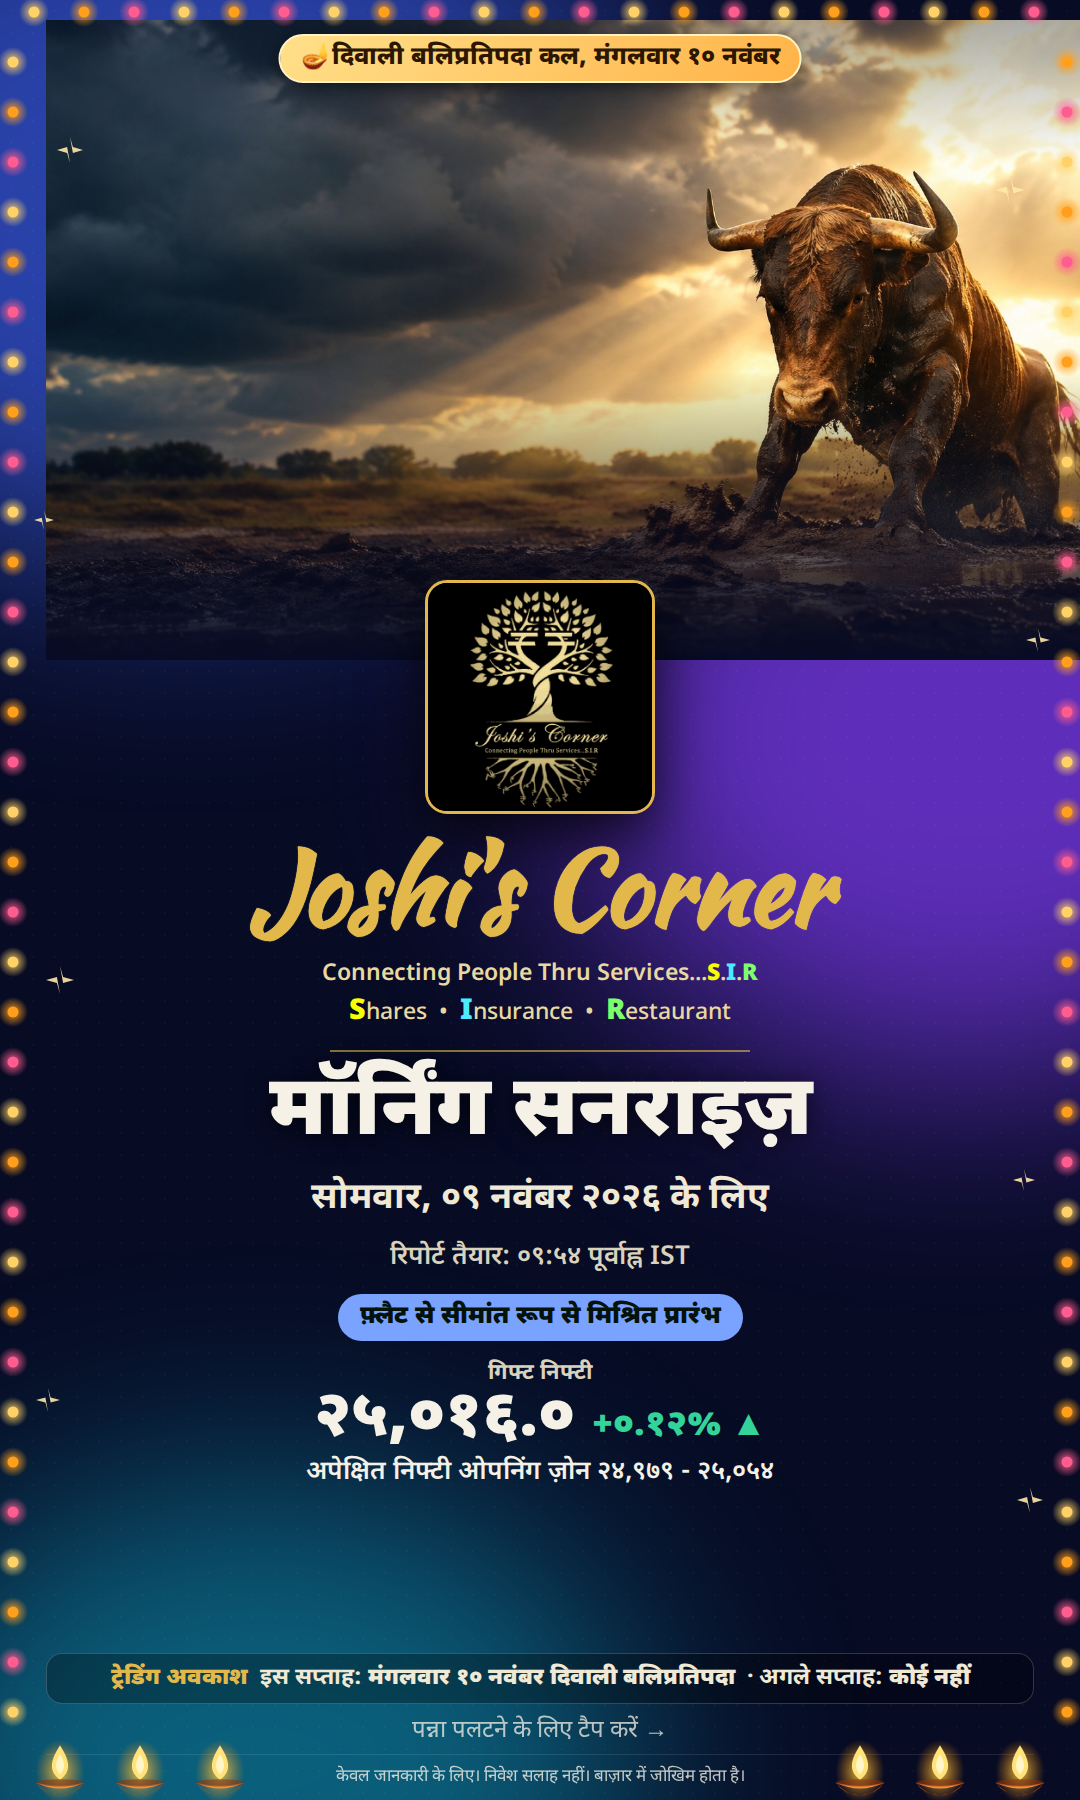
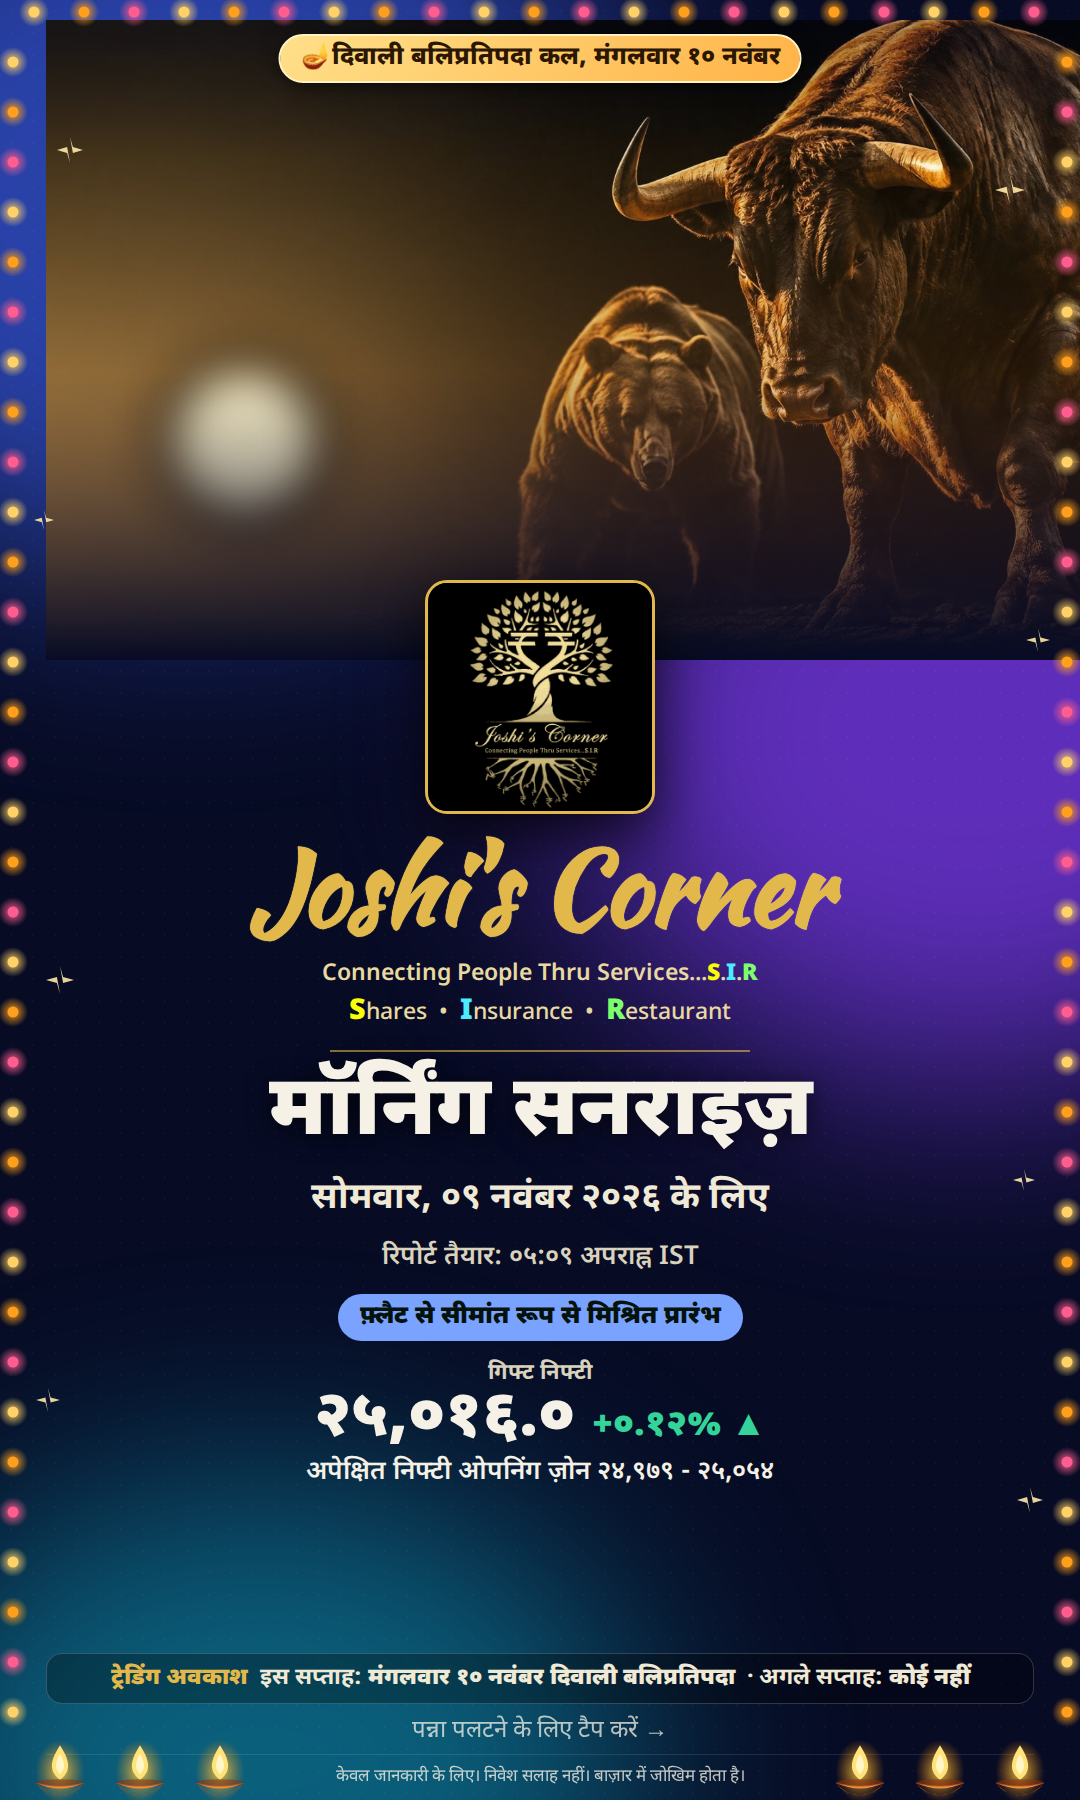
backfill: Hindi/Bengali editions

Changed region(s): [[0.0306, 0.0, 1.0, 0.3422], [0.3361, 0.6844, 0.6417, 0.7156]]

diff --git a/morning/2026-11-09/index.html b/morning/2026-11-09/index.html
@@ -41,7 +41,7 @@ html,body{height:100%;background:radial-gradient(120% 90% at 50% 0%,#2a2140 0%,#
 <div class="top"><span class="b">Joshi's Corner</span><span class="lg"><button data-l="en">English</button><button data-l="hi">हिन्दी</button><button data-l="bn">বাংলা</button></span></div>
 <div class="stage"><div class="book" id="book"><div class="spine"></div><div class="leaf"><img src="../../reports/morning-pulse/JCGG_Morning_Pulse_Mobile_2026-11-09_1.png" alt="Page 1" loading="eager"><div class="back"></div><div class="shade"></div></div><div class="leaf"><img src="../../reports/morning-pulse/JCGG_Morning_Pulse_Mobile_2026-11-09_2.png" alt="Page 2" loading="eager"><div class="back"></div><div class="shade"></div></div><div class="leaf"><img src="../../reports/morning-pulse/JCGG_Morning_Pulse_Mobile_2026-11-09_3.png" alt="Page 3" loading="eager"><div class="back"></div><div class="shade"></div></div><div class="leaf"><img src="../../reports/morning-pulse/JCGG_Morning_Pulse_Mobile_2026-11-09_4.png" alt="Page 4" loading="eager"><div class="back"></div><div class="shade"></div></div><div class="leaf"><img src="../../reports/morning-pulse/JCGG_Morning_Pulse_Mobile_2026-11-09_5.png" alt="Page 5" loading="eager"><div class="back"></div><div class="shade"></div></div><div class="leaf"><img src="../../reports/morning-pulse/JCGG_Morning_Pulse_Mobile_2026-11-09_6.png" alt="Page 6" loading="eager"><div class="back"></div><div class="shade"></div></div></div></div>
 <div class="hint" id="hint">Tap the page to turn it</div>
-<div class="stat"><div class="old" id="old"></div><span id="gen">Report generated <b>Mon 09 Nov 2026, 09:54 AM IST</b></span></div>
+<div class="stat"><div class="old" id="old"></div><span id="gen">Report generated <b>Tue 10 Nov 2026, 05:09 PM IST</b></span></div>
 <div class="bar"><button class="g" id="prev" aria-label="Previous page">&#8249;</button><div class="dots" id="dots"></div><button id="next" aria-label="Next page">Next page &#8250;</button><button class="g" id="share">Share</button></div>
 <script>(function(){
 var LP={"en": ["../../reports/morning-pulse/JCGG_Morning_Pulse_Mobile_2026-11-09_1.png", "../../reports/morning-pulse/JCGG_Morning_Pulse_Mobile_2026-11-09_2.png", "../../reports/morning-pulse/JCGG_Morning_Pulse_Mobile_2026-11-09_3.png", "../../reports/morning-pulse/JCGG_Morning_Pulse_Mobile_2026-11-09_4.png", "../../reports/morning-pulse/JCGG_Morning_Pulse_Mobile_2026-11-09_5.png", "../../reports/morning-pulse/JCGG_Morning_Pulse_Mobile_2026-11-09_6.png"], "hi": ["../../reports/morning-pulse/JCGG_Morning_Pulse_Mobile_HI_2026-11-09_1.png", "../../reports/morning-pulse/JCGG_Morning_Pulse_Mobile_HI_2026-11-09_2.png", "../../reports/morning-pulse/JCGG_Morning_Pulse_Mobile_HI_2026-11-09_3.png", "../../reports/morning-pulse/JCGG_Morning_Pulse_Mobile_HI_2026-11-09_4.png", "../../reports/morning-pulse/JCGG_Morning_Pulse_Mobile_HI_2026-11-09_5.png", "../../reports/morning-pulse/JCGG_Morning_Pulse_Mobile_HI_2026-11-09_6.png"], "bn": ["../../reports/morning-pulse/JCGG_Morning_Pulse_Mobile_BN_2026-11-09_1.png", "../../reports/morning-pulse/JCGG_Morning_Pulse_Mobile_BN_2026-11-09_2.png", "../../reports/morning-pulse/JCGG_Morning_Pulse_Mobile_BN_2026-11-09_3.png", "../../reports/morning-pulse/JCGG_Morning_Pulse_Mobile_BN_2026-11-09_4.png", "../../reports/morning-pulse/JCGG_Morning_Pulse_Mobile_BN_2026-11-09_5.png", "../../reports/morning-pulse/JCGG_Morning_Pulse_Mobile_BN_2026-11-09_6.png"]},DEF=document.documentElement.lang||'en',cur='en';
@@ -82,11 +82,12 @@ document.addEventListener('keydown',function(e){if(e.key==='ArrowRight'||e.key==
 var sx=null;document.addEventListener('touchstart',function(e){sx=e.touches[0].clientX},{passive:true});
 document.addEventListener('touchend',function(e){if(sx===null)return;var dx=e.changedTouches[0].clientX-sx;if(Math.abs(dx)>45)go(dx<0?1:-1);sx=null},{passive:true});
 document.getElementById('share').onclick=function(){var d={title:"Joshi's Corner - Morning Sunrise for Monday, 09 November 2026",text:"Joshi's Corner - Morning Sunrise for Monday, 09 November 2026",url:location.href};if(navigator.share){navigator.share(d).catch(function(){})}else if(navigator.clipboard){navigator.clipboard.writeText(location.href);this.textContent='Link copied'}};
-(function(){var RD='2026-11-09',KIND='morning',ADM='',GEN='Mon 09 Nov 2026, 09:54 AM IST';
+(function(){var RD='2026-11-09',KIND='morning',ADM='',GEN='Tue 10 Nov 2026, 05:09 PM IST';
  var n=new Date(Date.now()+19800000),mm=n.getUTCHours()*60+n.getUTCMinutes(),dow=n.getUTCDay(),due=KIND==='evening'?16*60+40:8*60+55;
  function iso(d){return d.toISOString().slice(0,10)}
- var e=new Date(n.getTime());if(dow>=1&&dow<=5&&mm>=due){}else{do{e=new Date(e.getTime()-86400000)}while(e.getUTCDay()===0||e.getUTCDay()===6)}
- var exp=iso(e);if(dow>=1&&dow<=5&&mm>=due)exp=iso(n);
+ var HOL=["2026-01-15", "2026-01-26", "2026-03-03", "2026-03-26", "2026-03-31", "2026-04-03", "2026-04-14", "2026-05-01", "2026-05-28", "2026-06-26", "2026-09-14", "2026-10-02", "2026-10-20", "2026-11-10", "2026-11-24", "2026-12-25", "2027-01-26"];function td(d){var w=d.getUTCDay();return w>=1&&w<=5&&HOL.indexOf(iso(d))<0}   /* trading day: weekday and not an NSE holiday */
+ var e=new Date(n.getTime());if(!(td(n)&&mm>=due)){do{e=new Date(e.getTime()-86400000)}while(!td(e))}
+ var exp=iso(e);
  var o=document.getElementById('old');
  if(RD<exp){var msg='This report was last updated <b>'+GEN+'</b> and is older than the latest one. Please inform the admin.';
   if(ADM){msg+=' <a href="https://wa.me/'+ADM+'?text='+encodeURIComponent('Hi, the '+(KIND==='evening'?'Evening Breeze':'Morning Sunrise')+' report link still shows the report generated '+GEN+'. Please update it.')+'" target="_blank" rel="noopener">Message admin</a>'}
@@ -142,4 +143,4 @@ function frame(now){requestAnimationFrame(frame);if(document.hidden){last=now;re
    else{cx.save();cx.translate(p.x,p.y);cx.rotate(p.rot);if(T==='tricolor'){cx.fillRect(-p.r*1.3,-p.r*.7,p.r*2.6,p.r*1.4);}else{cx.beginPath();cx.ellipse(0,0,p.r*1.6,p.r*.8,0,0,PI2);cx.fill()}cx.restore()}}
   else if(T==='holi'){p.y-=p.v*dt*.3;if(p.y<-20)P[n]=mk(false)}}
  cx.globalAlpha=1;cx.globalCompositeOperation='source-over'}
-requestAnimationFrame(frame)})();</script><script src="https://ssjs1mu.github.io/jc-stock-analyst/analytics.js?v=1" defer></script></body></html>
+requestAnimationFrame(frame)})();</script><script src="https://ssjs1mu.github.io/jc-stock-analyst/analytics.js?v=2" defer></script></body></html>

diff --git a/morning/index.html b/morning/index.html
@@ -41,7 +41,7 @@ html,body{height:100%;background:radial-gradient(120% 90% at 50% 0%,#2a2140 0%,#
 <div class="top"><span class="b">Joshi's Corner</span><span class="lg"><button data-l="en">English</button><button data-l="hi">हिन्दी</button><button data-l="bn">বাংলা</button></span></div>
 <div class="stage"><div class="book" id="book"><div class="spine"></div><div class="leaf"><img src="../reports/morning-pulse/JCGG_Morning_Pulse_Mobile_2026-11-09_1.png" alt="Page 1" loading="eager"><div class="back"></div><div class="shade"></div></div><div class="leaf"><img src="../reports/morning-pulse/JCGG_Morning_Pulse_Mobile_2026-11-09_2.png" alt="Page 2" loading="eager"><div class="back"></div><div class="shade"></div></div><div class="leaf"><img src="../reports/morning-pulse/JCGG_Morning_Pulse_Mobile_2026-11-09_3.png" alt="Page 3" loading="eager"><div class="back"></div><div class="shade"></div></div><div class="leaf"><img src="../reports/morning-pulse/JCGG_Morning_Pulse_Mobile_2026-11-09_4.png" alt="Page 4" loading="eager"><div class="back"></div><div class="shade"></div></div><div class="leaf"><img src="../reports/morning-pulse/JCGG_Morning_Pulse_Mobile_2026-11-09_5.png" alt="Page 5" loading="eager"><div class="back"></div><div class="shade"></div></div><div class="leaf"><img src="../reports/morning-pulse/JCGG_Morning_Pulse_Mobile_2026-11-09_6.png" alt="Page 6" loading="eager"><div class="back"></div><div class="shade"></div></div></div></div>
 <div class="hint" id="hint">Tap the page to turn it</div>
-<div class="stat"><div class="old" id="old"></div><span id="gen">Report generated <b>Mon 09 Nov 2026, 09:54 AM IST</b></span></div>
+<div class="stat"><div class="old" id="old"></div><span id="gen">Report generated <b>Tue 10 Nov 2026, 05:09 PM IST</b></span></div>
 <div class="bar"><button class="g" id="prev" aria-label="Previous page">&#8249;</button><div class="dots" id="dots"></div><button id="next" aria-label="Next page">Next page &#8250;</button><button class="g" id="share">Share</button></div>
 <script>(function(){
 var LP={"en": ["../reports/morning-pulse/JCGG_Morning_Pulse_Mobile_2026-11-09_1.png", "../reports/morning-pulse/JCGG_Morning_Pulse_Mobile_2026-11-09_2.png", "../reports/morning-pulse/JCGG_Morning_Pulse_Mobile_2026-11-09_3.png", "../reports/morning-pulse/JCGG_Morning_Pulse_Mobile_2026-11-09_4.png", "../reports/morning-pulse/JCGG_Morning_Pulse_Mobile_2026-11-09_5.png", "../reports/morning-pulse/JCGG_Morning_Pulse_Mobile_2026-11-09_6.png"], "hi": ["../reports/morning-pulse/JCGG_Morning_Pulse_Mobile_HI_2026-11-09_1.png", "../reports/morning-pulse/JCGG_Morning_Pulse_Mobile_HI_2026-11-09_2.png", "../reports/morning-pulse/JCGG_Morning_Pulse_Mobile_HI_2026-11-09_3.png", "../reports/morning-pulse/JCGG_Morning_Pulse_Mobile_HI_2026-11-09_4.png", "../reports/morning-pulse/JCGG_Morning_Pulse_Mobile_HI_2026-11-09_5.png", "../reports/morning-pulse/JCGG_Morning_Pulse_Mobile_HI_2026-11-09_6.png"], "bn": ["../reports/morning-pulse/JCGG_Morning_Pulse_Mobile_BN_2026-11-09_1.png", "../reports/morning-pulse/JCGG_Morning_Pulse_Mobile_BN_2026-11-09_2.png", "../reports/morning-pulse/JCGG_Morning_Pulse_Mobile_BN_2026-11-09_3.png", "../reports/morning-pulse/JCGG_Morning_Pulse_Mobile_BN_2026-11-09_4.png", "../reports/morning-pulse/JCGG_Morning_Pulse_Mobile_BN_2026-11-09_5.png", "../reports/morning-pulse/JCGG_Morning_Pulse_Mobile_BN_2026-11-09_6.png"]},DEF=document.documentElement.lang||'en',cur='en';
@@ -82,11 +82,12 @@ document.addEventListener('keydown',function(e){if(e.key==='ArrowRight'||e.key==
 var sx=null;document.addEventListener('touchstart',function(e){sx=e.touches[0].clientX},{passive:true});
 document.addEventListener('touchend',function(e){if(sx===null)return;var dx=e.changedTouches[0].clientX-sx;if(Math.abs(dx)>45)go(dx<0?1:-1);sx=null},{passive:true});
 document.getElementById('share').onclick=function(){var d={title:"Joshi's Corner - Morning Sunrise for Monday, 09 November 2026",text:"Joshi's Corner - Morning Sunrise for Monday, 09 November 2026",url:location.href};if(navigator.share){navigator.share(d).catch(function(){})}else if(navigator.clipboard){navigator.clipboard.writeText(location.href);this.textContent='Link copied'}};
-(function(){var RD='2026-11-09',KIND='morning',ADM='',GEN='Mon 09 Nov 2026, 09:54 AM IST';
+(function(){var RD='2026-11-09',KIND='morning',ADM='',GEN='Tue 10 Nov 2026, 05:09 PM IST';
  var n=new Date(Date.now()+19800000),mm=n.getUTCHours()*60+n.getUTCMinutes(),dow=n.getUTCDay(),due=KIND==='evening'?16*60+40:8*60+55;
  function iso(d){return d.toISOString().slice(0,10)}
- var e=new Date(n.getTime());if(dow>=1&&dow<=5&&mm>=due){}else{do{e=new Date(e.getTime()-86400000)}while(e.getUTCDay()===0||e.getUTCDay()===6)}
- var exp=iso(e);if(dow>=1&&dow<=5&&mm>=due)exp=iso(n);
+ var HOL=["2026-01-15", "2026-01-26", "2026-03-03", "2026-03-26", "2026-03-31", "2026-04-03", "2026-04-14", "2026-05-01", "2026-05-28", "2026-06-26", "2026-09-14", "2026-10-02", "2026-10-20", "2026-11-10", "2026-11-24", "2026-12-25", "2027-01-26"];function td(d){var w=d.getUTCDay();return w>=1&&w<=5&&HOL.indexOf(iso(d))<0}   /* trading day: weekday and not an NSE holiday */
+ var e=new Date(n.getTime());if(!(td(n)&&mm>=due)){do{e=new Date(e.getTime()-86400000)}while(!td(e))}
+ var exp=iso(e);
  var o=document.getElementById('old');
  if(RD<exp){var msg='This report was last updated <b>'+GEN+'</b> and is older than the latest one. Please inform the admin.';
   if(ADM){msg+=' <a href="https://wa.me/'+ADM+'?text='+encodeURIComponent('Hi, the '+(KIND==='evening'?'Evening Breeze':'Morning Sunrise')+' report link still shows the report generated '+GEN+'. Please update it.')+'" target="_blank" rel="noopener">Message admin</a>'}
@@ -142,4 +143,4 @@ function frame(now){requestAnimationFrame(frame);if(document.hidden){last=now;re
    else{cx.save();cx.translate(p.x,p.y);cx.rotate(p.rot);if(T==='tricolor'){cx.fillRect(-p.r*1.3,-p.r*.7,p.r*2.6,p.r*1.4);}else{cx.beginPath();cx.ellipse(0,0,p.r*1.6,p.r*.8,0,0,PI2);cx.fill()}cx.restore()}}
   else if(T==='holi'){p.y-=p.v*dt*.3;if(p.y<-20)P[n]=mk(false)}}
  cx.globalAlpha=1;cx.globalCompositeOperation='source-over'}
-requestAnimationFrame(frame)})();</script><script src="https://ssjs1mu.github.io/jc-stock-analyst/analytics.js?v=1" defer></script></body></html>
+requestAnimationFrame(frame)})();</script><script src="https://ssjs1mu.github.io/jc-stock-analyst/analytics.js?v=2" defer></script></body></html>

diff --git a/updates/index.html b/updates/index.html
@@ -25,4 +25,4 @@ https://ssjs1mu.github.io/jc-stock-analyst/muhurat/
 Published: Sun 8 Nov, 12:19 PM IST
 
 All reports in one place: https://tinyurl.com/JoshisCorner-Reports</div><div class="act"><a class="wa" href="https://wa.me/?text=Joshi%27s%20Corner%20-%20daily%20reports%20%28Mon-Fri%2C%20NSE%20trading%20days%29%0A%0A%F0%9F%8C%85%20Morning%20Sunrise%20-%20ready%20by%208%3A45%20AM%20IST%20on%20every%20trading%20day%0Ahttps%3A//ssjs1mu.github.io/jc-stock-analyst/morning/%0ALatest%3A%20Mon%209%20Nov%2C%208%3A57%20AM%20IST%0A%0A%F0%9F%8C%87%20Evening%20Breeze%20-%20ready%20by%204%3A30%20PM%20IST%20on%20every%20trading%20day%0Ahttps%3A//ssjs1mu.github.io/jc-stock-analyst/evening/%0ALatest%3A%20Mon%209%20Nov%2C%204%3A08%20PM%20IST%0A%0A%F0%9F%AA%94%20Muhurat%20Trading%202026%20%28special%29%20-%20special%20edition%2C%20English%20/%20Hindi%20/%20Bengali%0Ahttps%3A//ssjs1mu.github.io/jc-stock-analyst/muhurat/%0APublished%3A%20Sun%208%20Nov%2C%2012%3A19%20PM%20IST%0A%0AAll%20reports%20in%20one%20place%3A%20https%3A//tinyurl.com/JoshisCorner-Reports" target="_blank" rel="noopener">Share on WhatsApp</a><button class="cp" onclick="navigator.clipboard.writeText(document.getElementById('msg').innerText).then(function(){this.textContent='Copied'}.bind(this))">Copy message</button></div>
-<p class="sub" style="margin-top:18px;font-size:12.5px">Updated Tue 10 Nov, 12:51 PM IST. Not investment advice.</p></div><script src="https://ssjs1mu.github.io/jc-stock-analyst/analytics.js?v=2" defer></script></body></html>
+<p class="sub" style="margin-top:18px;font-size:12.5px">Updated Tue 10 Nov, 5:09 PM IST. Not investment advice.</p></div><script src="https://ssjs1mu.github.io/jc-stock-analyst/analytics.js?v=2" defer></script></body></html>
